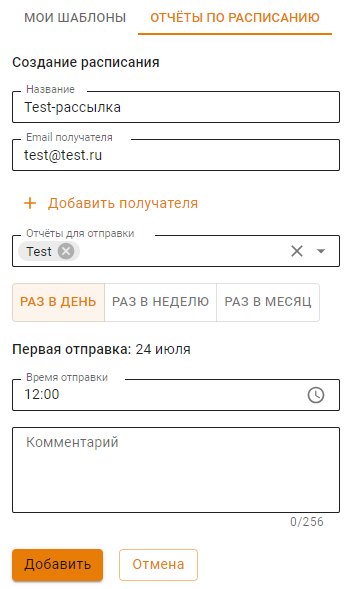
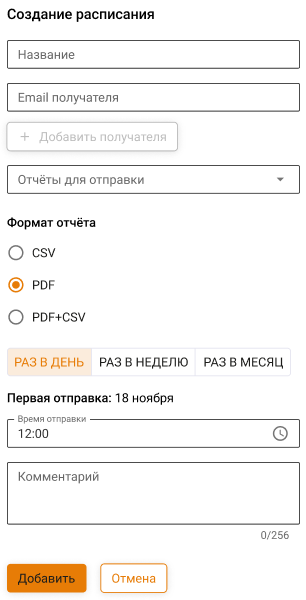
ICS-42769 УТМ. Актуализировать ст-ю Конструктор отчетов

diff --git a/settings/reports/report-designer.md b/settings/reports/report-designer.md
@@ -4,11 +4,11 @@ description: Настройка статистики в пользователь
 
 # Конструктор отчетов
 
-NGFW предоставляет возможность создать шаблоны отчетов и настроить их рассылку в формате .pdf на электронную почту.
+NGFW предоставляет возможность создать шаблоны отчетов и настроить их рассылку в форматах .pdf и/или .csv на электронную почту.
 
 ## Мои шаблоны
 
-На этой вкладке создаются шаблоны со статистикой, которую можно просмотреть в браузере, сохранить в формате .pdf или отправить на электронную почту.
+На этой вкладке создаются шаблоны со статистикой, которую можно просмотреть в браузере, сохранить или отправить на электронную почту.
 
 При нажатии на кнопку **Добавить** откроется меню настройки шаблона. 
 
@@ -16,7 +16,7 @@ NGFW предоставляет возможность создать шабло
 
 Настройка виджетов:
 
-* В строке **По кому/чему** выберите объект, по которому будет собираться статистика. Если выбираете **Определенный** объект (например *Определенный пользователь* или *Определенная группа*), то появится дополнительная строка **Объекты**, где можно выбрать несколько объектов;
+* В строке **По кому/чему** выберите объект, по которому будет собираться статистика. Если выбираете **Определенный** объект (например, *Определенный пользователь* или *Определенная группа*), то появится дополнительная строка **Объекты**, где можно выбрать несколько объектов;
 * В строке **Виджет** укажите, какую информацию хотите видеть по выбранному объекту;
 * Задайте **Настройки отображения**. 
   
@@ -41,9 +41,11 @@ NGFW предоставляет возможность создать шабло
 
 На этой вкладке предоставлена возможность создания/редактирования настроек для отправки рассылки на электронную почту, доступна фильтрация по всем столбцам с помощью кнопки **Фильтры**.
 
-Для создания настройки нажмите **Отчеты по расписанию -> Добавить** в левом верхнем углу. В одной настройке можно указать несколько e-mail-получателей (кнопка **Добавить получателя**) и несколько отчетов (кнопка **Добавить отчет**):
+Для создания настройки нажмите **Отчеты по расписанию -> Добавить** в левом верхнем углу. В одной настройке можно указать несколько e-mail-получателей (кнопка **Добавить получателя**) и несколько отчетов (поле **Отчеты для отправки**):
 
 ![](/.gitbook/assets/report-designer1.png)
+
+Допустимые форматы отчетов: CSV, PDF и PDF+CSV. Генерация отчетов в PDF требует значительных ресурсов ЦПУ и ОЗУ.
 
 Отчеты будут отправляться:
 
@@ -57,16 +59,19 @@ NGFW предоставляет возможность создать шабло
 1\. Задайте временной период:
 * Раз в неделю;
 * День недели - четверг; 
-* Нажмите *Добавить*. 
+* Нажмите **Добавить**. 
 
 2\. Перейдите к редактированию отчета по кнопке **Редактировать** и измените настройки временного периода:
 * Раз в месяц;
 * Каждую вторую среду;
-* Нажмите *Сохранить*.
+* Нажмите **Сохранить**.
 
 3\. Перейдите к редактированию отчета и выберите **Раз в месяц**. Откроются настройки, созданные в пункте 1.
 
-#### Пример: Требуется настроить отправку отчета с информацией о заблокированных сайтах по всем пользователям каждое первое число месяца
+<details>
+<summary>Пример настройки ежемесячного отчета в формате CSV</summary>
+
+**Пример.** Требуется настроить отправку отчета в формате CSV с информацией о заблокированных сайтах по всем пользователям. Периодичность - ежемесячно, каждое первое число месяца.
 
 Создайте шаблон отчета, на основании которого будет собрана статистика для отправки:
 
@@ -89,7 +94,7 @@ NGFW предоставляет возможность создать шабло
 
 7\. Сохраните шаблон по кнопке **Добавить**.
 
-Создайте правило, по которому будет отправляться шаблон отчета на электронную почту:
+Создайте правило, по которому шаблон отчета будет отправляться на электронную почту:
 
 1\. Нажмите **Добавить** на вкладке **Отчеты по расписанию**.
 
@@ -98,6 +103,10 @@ NGFW предоставляет возможность создать шабло
 * **Название** - любое название, которое поможет идентифицировать правило расписания;
 * **Email получателя** - электронная почта получателя отчета. Если нужно отправлять отчет нескольким получателям, укажите дополнительные адреса по кнопке **Добавить получателя**.
 
-3\. Выберите в выпадающем списке в строке нужный шаблон.
+3\. Выберите нужный шаблон в поле **Отчеты для отправки**.
 
-4\. Укажите настройки даты/дня и времени отправки отчета получателю.
+4\. Выберите формат отчета (CSV).
+
+5\. Укажите настройки даты/дня и времени отправки отчета получателю (раз в месяц, каждый 1-й день месяца).
+
+</details>
